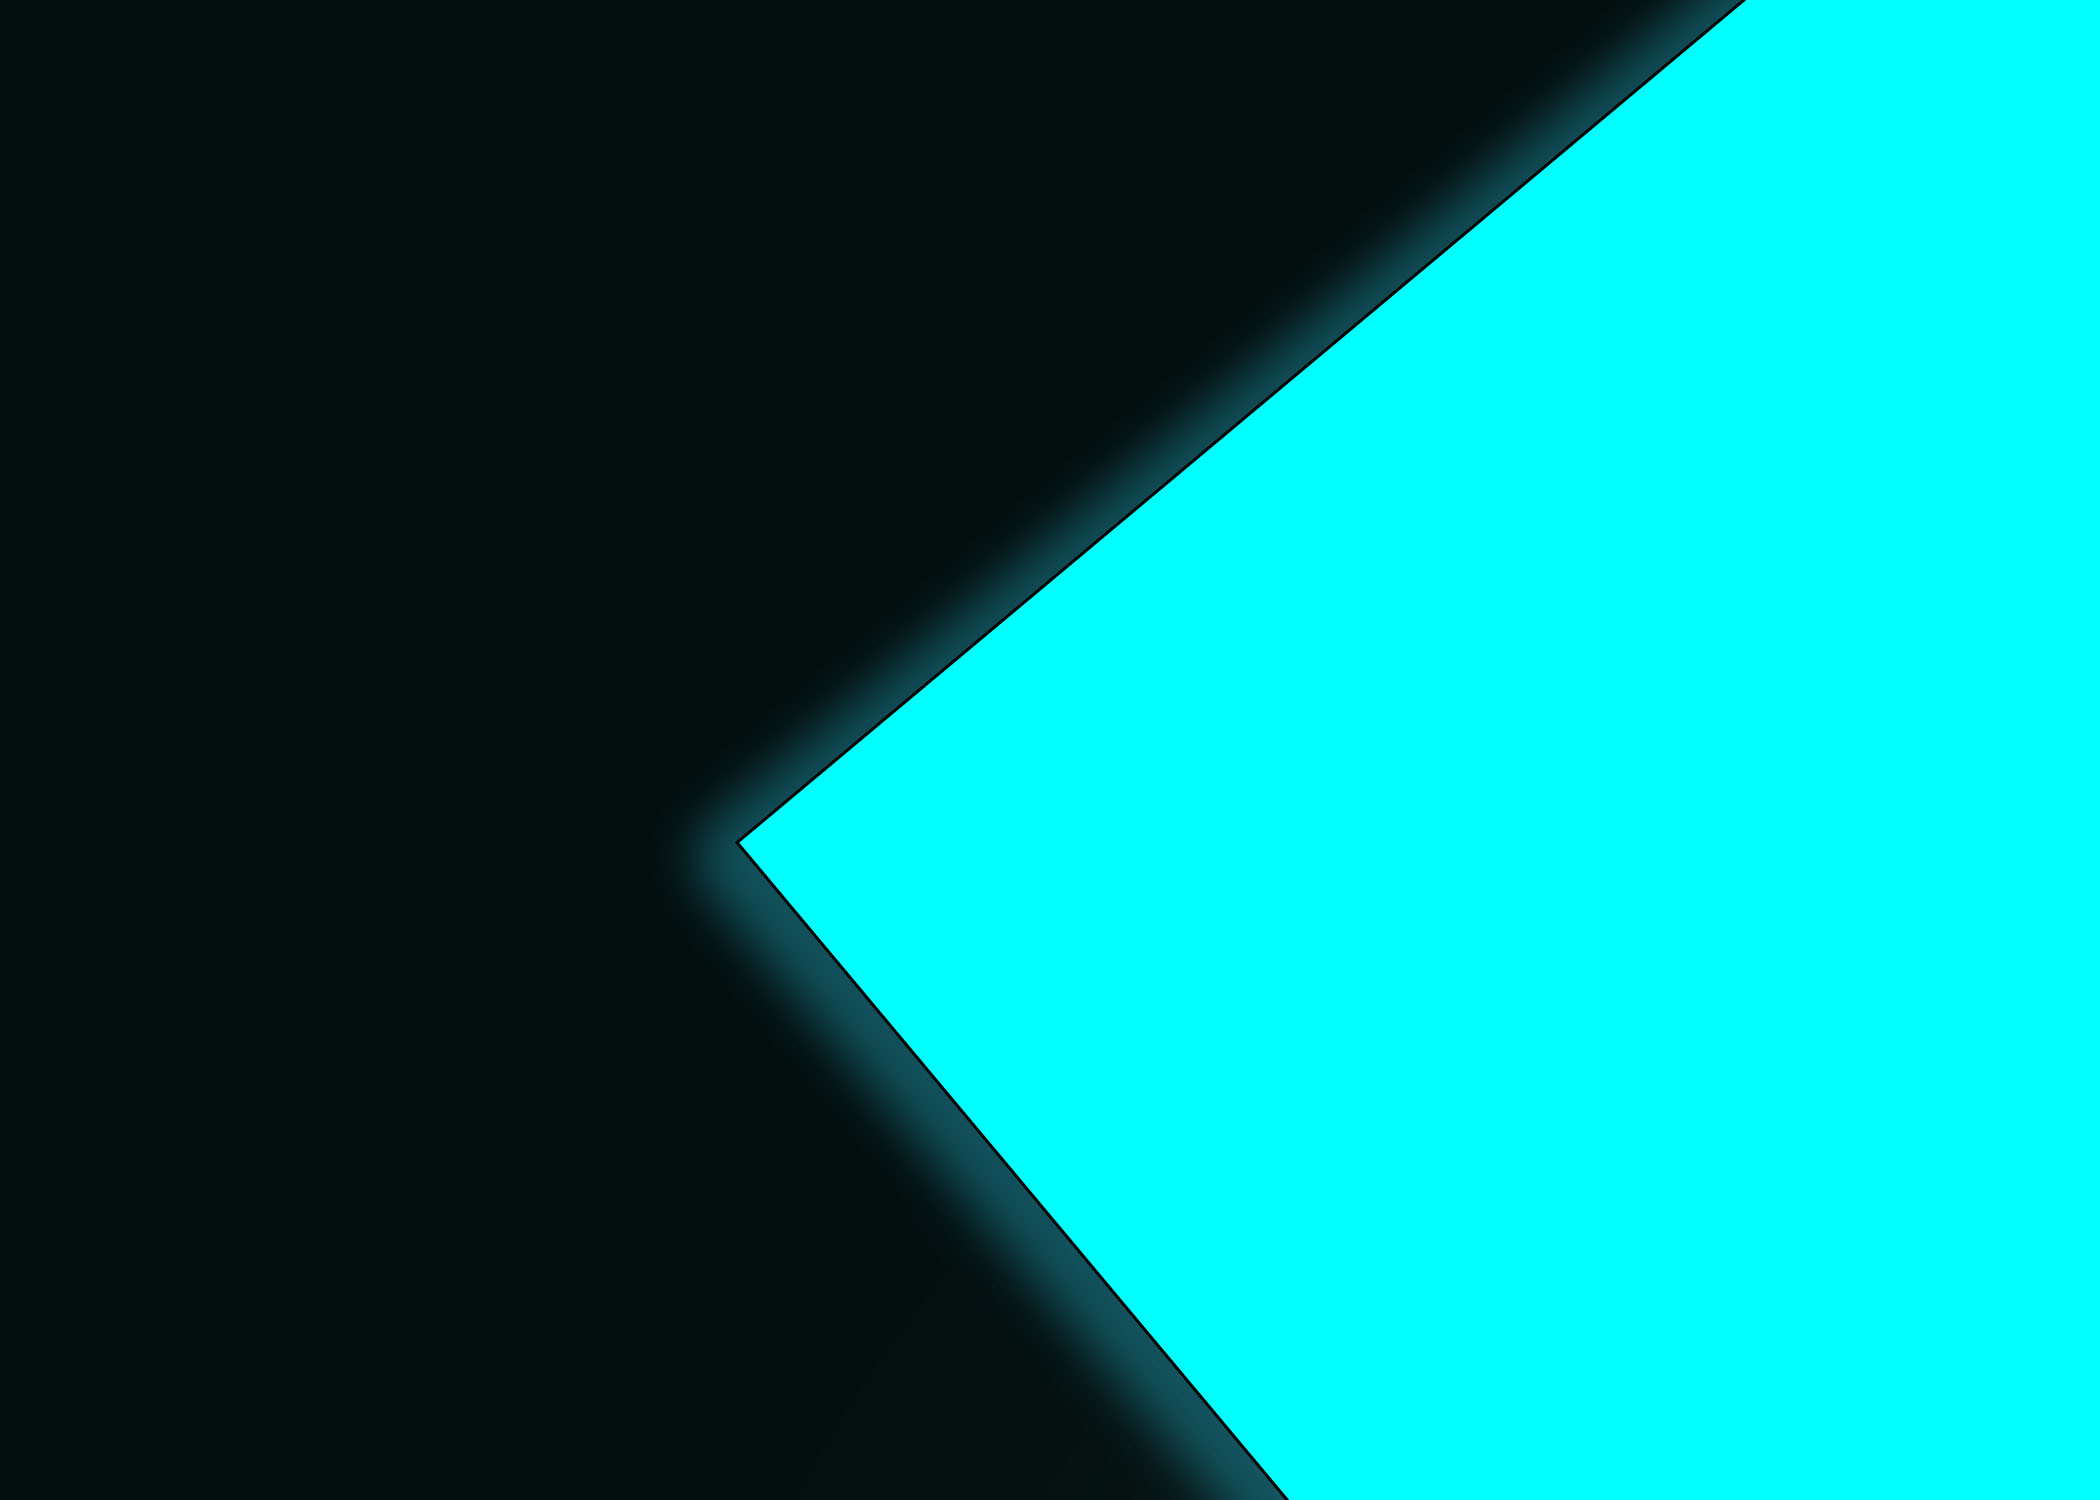
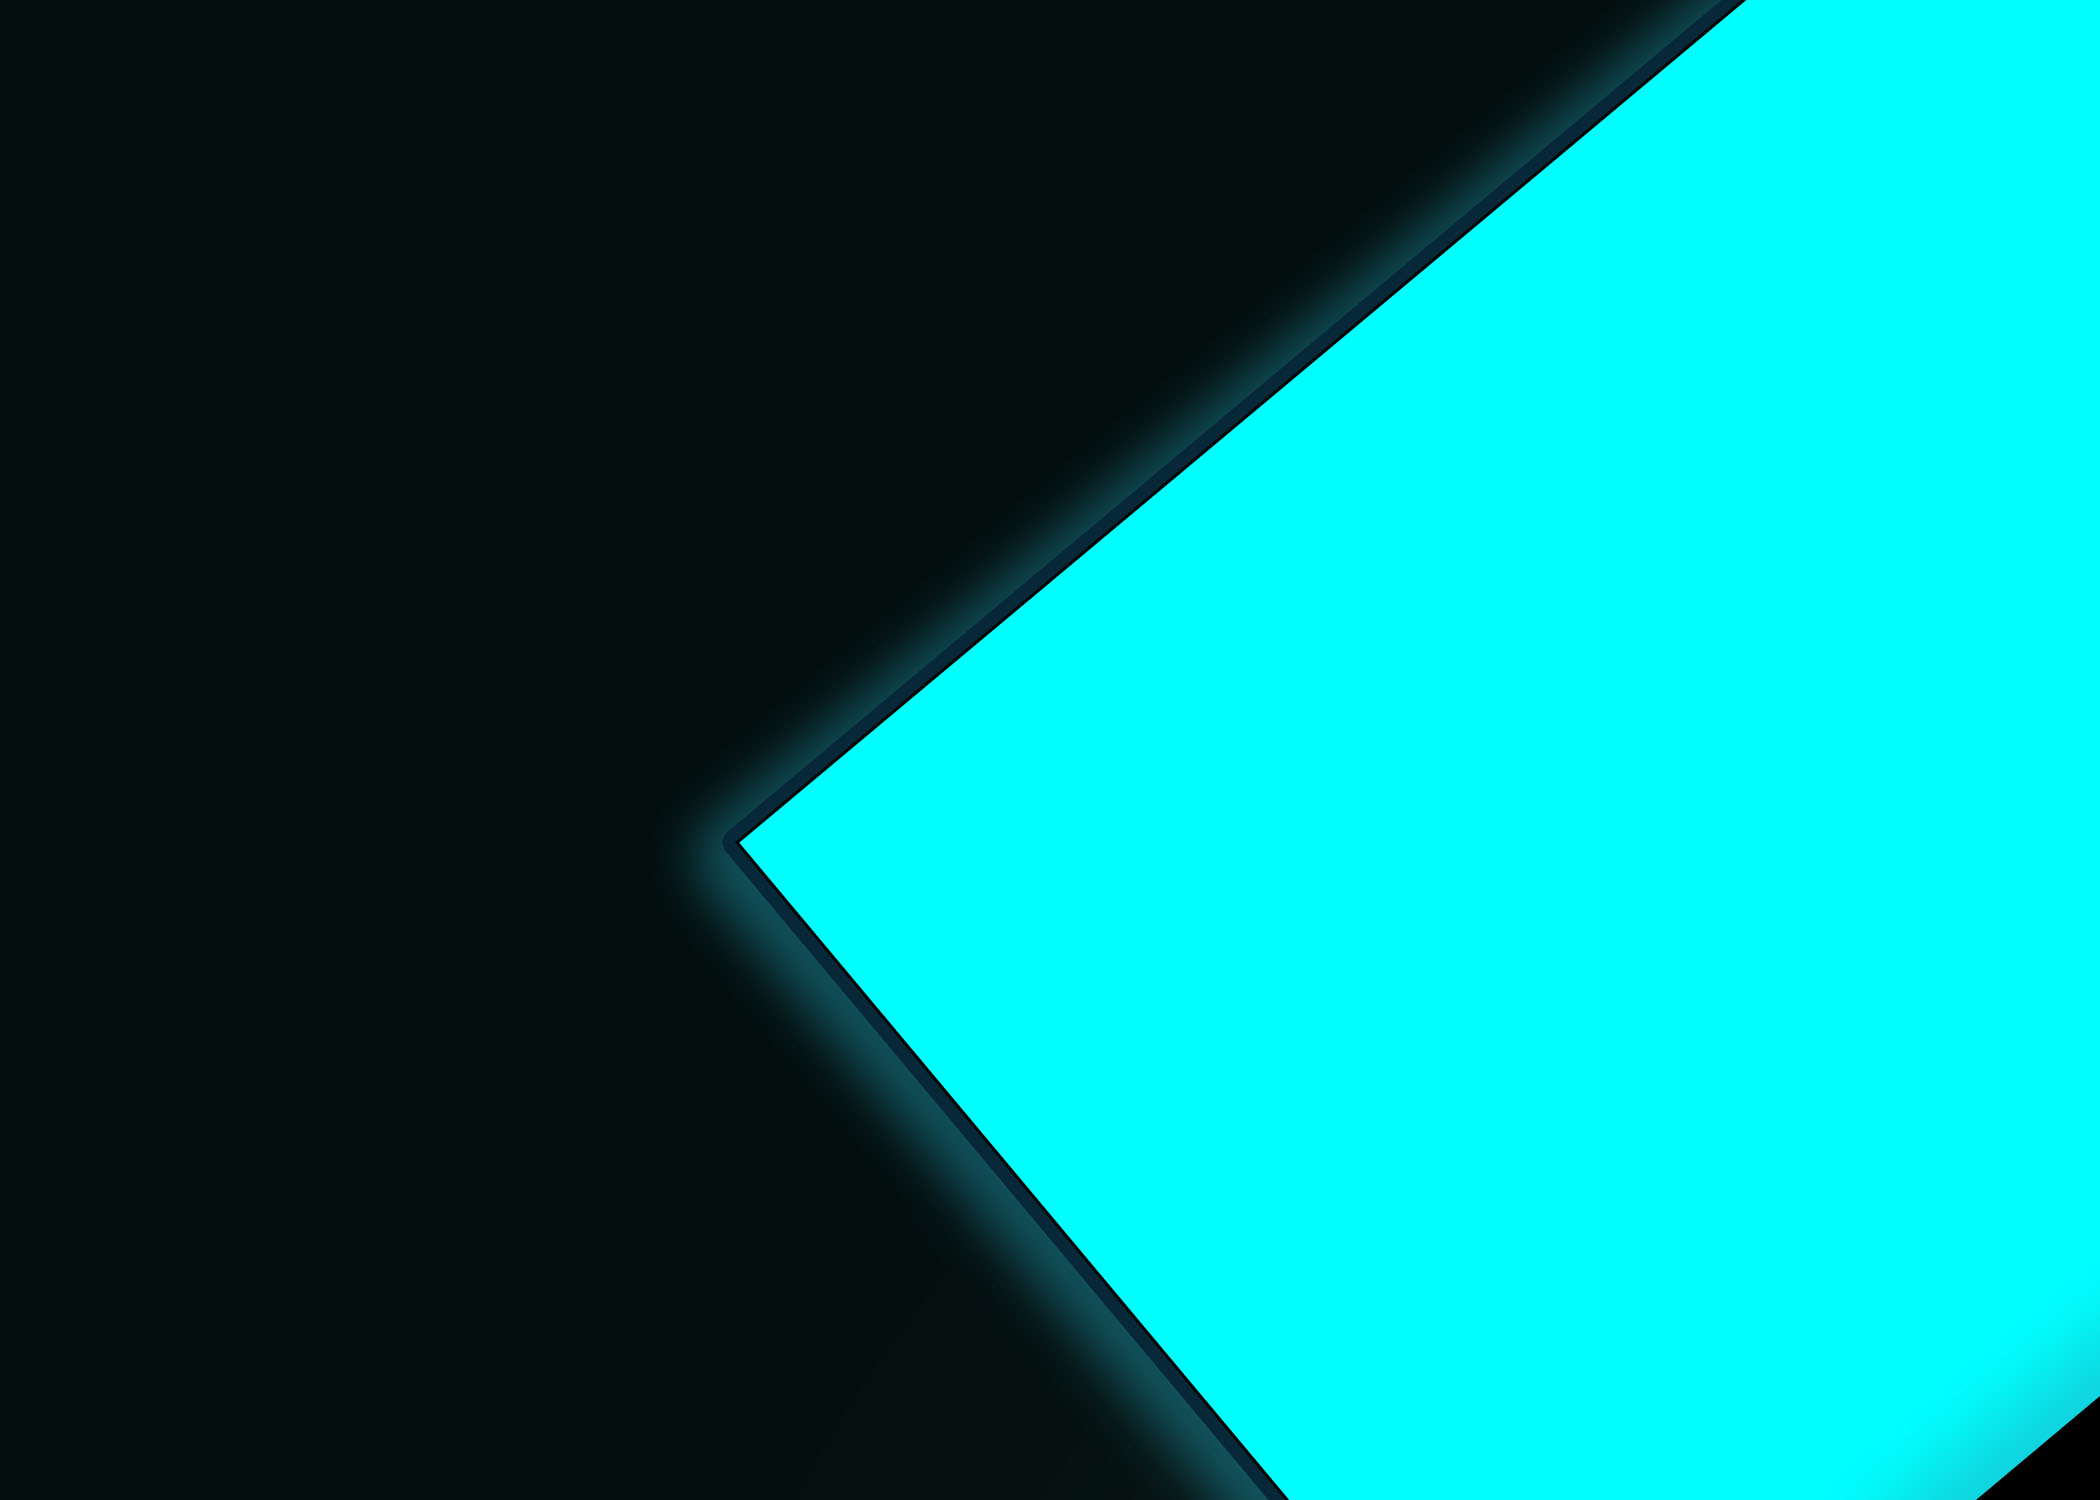
New style for header

diff --git a/dist/css/main.css b/dist/css/main.css
@@ -285,7 +285,7 @@ body {
   content: "";
   top: 0;
   left: 0;
-  background: url("../../img/header-dark-block.jpg") no-repeat center center/cover;
+  background: url("../../img/header-dark.jpg") no-repeat center center/cover;
   -webkit-box-shadow: 0 0.5rem 1rem rgba(0, 0, 0, 0.6);
           box-shadow: 0 0.5rem 1rem rgba(0, 0, 0, 0.6);
 }
@@ -469,7 +469,7 @@ a {
 
 @media (max-width: 1100px) {
   .header::before {
-    background: url("../../img/custom-bg-test-4.jpg") no-repeat center right/cover;
+    background: url("../../img/header-dark-big.jpg") no-repeat center right/cover;
   }
   .header-text {
     top: 35%;
@@ -606,7 +606,7 @@ a {
     top: 25%;
   }
   .header::before {
-    background: url("../../img/custom-bg-test-4.jpg") no-repeat center center;
+    background: url("../../img/header-dark.jpg") no-repeat center center;
   }
   .side-nav {
     height: 100%;
@@ -1062,7 +1062,7 @@ h2 .span-about-text {
 }
 
 .projects-header::before {
-  background: url("../../img/custom-bg-test-4.jpg") no-repeat center center/cover;
+  background: url("../../img/header-dark.jpg") no-repeat center center/cover;
 }
 
 .projects-nav-bar {

diff --git a/projects.html b/projects.html
@@ -89,7 +89,7 @@
               </div>
               <div class="card-content">               
                 <h3>Portfolio Website</h3>
-                <p class="tech-used">HTML, CSS (SCSS), JavaScript</p>
+                <p class="tech-used">HTML, CSS (SCSS), Photoshop, JavaScript</p>
                 <p class="margin-top-small card-text">The website you're currently viewing. Designed and coded from scratch. No themes were used - just tips and tricks I've picked up along my journey with my own aesthetic mixed in. I was aiming for a modern and visually pleasing user experience while highlighting my abilities in Web Development. Designed to be fully responsive and accessible to all users.
                 It also happens to be the first website I've ever built from start to finish, so I'm very proud of it!</p>
                 <div class="card-content-view">

diff --git a/sass/pages/home/_header.scss b/sass/pages/home/_header.scss
@@ -69,8 +69,7 @@
     content: "";
     top: 0;
     left: 0;
-    background: url("../../img/header-dark-block.jpg") no-repeat center
-      center/cover;
+    background: url("../../img/header-dark.jpg") no-repeat center center/cover;
     box-shadow: $shadow-normal;
   }
 }
@@ -251,7 +250,7 @@ a {
 @media (max-width: 1100px) {
   .header {
     &::before {
-      background: url("../../img/custom-bg-test-4.jpg") no-repeat center right /
+      background: url("../../img/header-dark-big.jpg") no-repeat center right /
         cover;
     }
   }
@@ -411,7 +410,7 @@ a {
       top: 25%;
     }
     &::before {
-      background: url("../../img/custom-bg-test-4.jpg") no-repeat center center;
+      background: url("../../img/header-dark.jpg") no-repeat center center;
     }
   }
 

diff --git a/sass/pages/projects/_projects-new.scss b/sass/pages/projects/_projects-new.scss
@@ -18,8 +18,7 @@
   height: 14rem;
 
   &::before {
-    background: url("../../img/custom-bg-test-4.jpg") no-repeat center center /
-      cover;
+    background: url("../../img/header-dark.jpg") no-repeat center center / cover;
   }
 }
 
